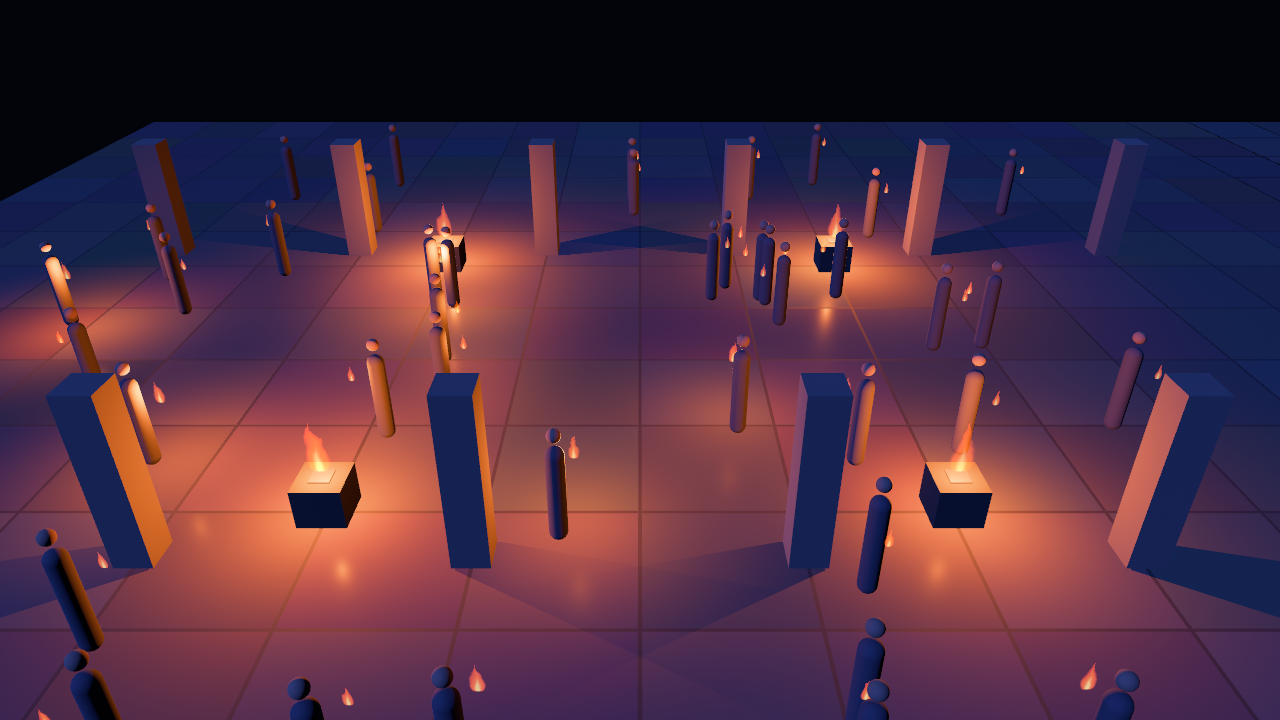
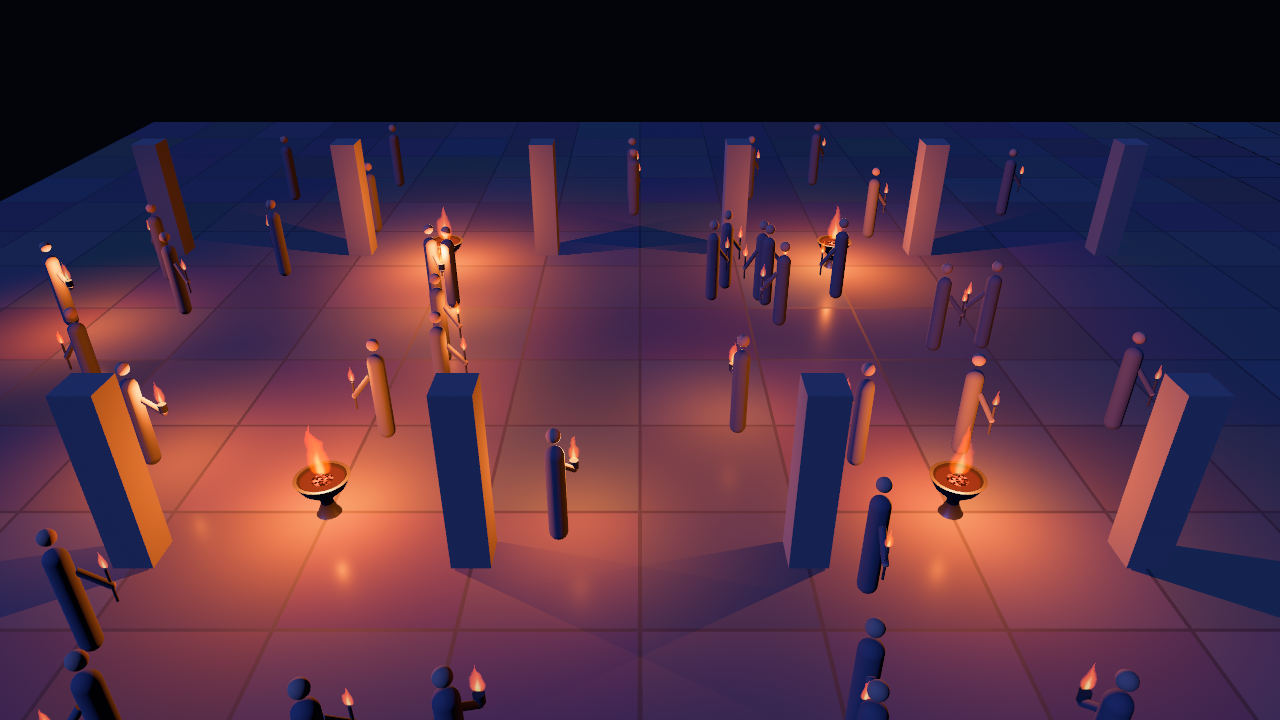
Re-take courtyard.gif and courtyard.png: bowl braziers and ember bed (the linked media still showed box braziers and a pink bed)

diff --git a/docs/DEMOS.md b/docs/DEMOS.md
@@ -236,6 +236,11 @@ FPS=30 WIDTH=640 \
   "Four braziers, 48 torches, an 8-light pool"
 ```
 
+`docs/media/courtyard.gif` is the showcase's capture at 640 px: the showcase recipe's step 1, then frames 1 to 48 of the
+sequence (frame 0 is black: the pipelines are still compiling), renumbered from 0 and encoded with `WIDTH=640`. 48 frames,
+3.1 MB. `docs/media/courtyard.png` is the still above. Both were re-taken on 2026-10-28 with the bowl braziers and the
+ember bed; the earlier files showed box braziers and a pink bed.
+
 **No default font path, deliberately.** `/System/Library/Fonts/...` exists on exactly one of the
 machines this repo is built on and fails on the others — and it fails in `magick`, after ffmpeg has
 already spent the whole two-pass encode. Name both files at the call site. The paths above are
